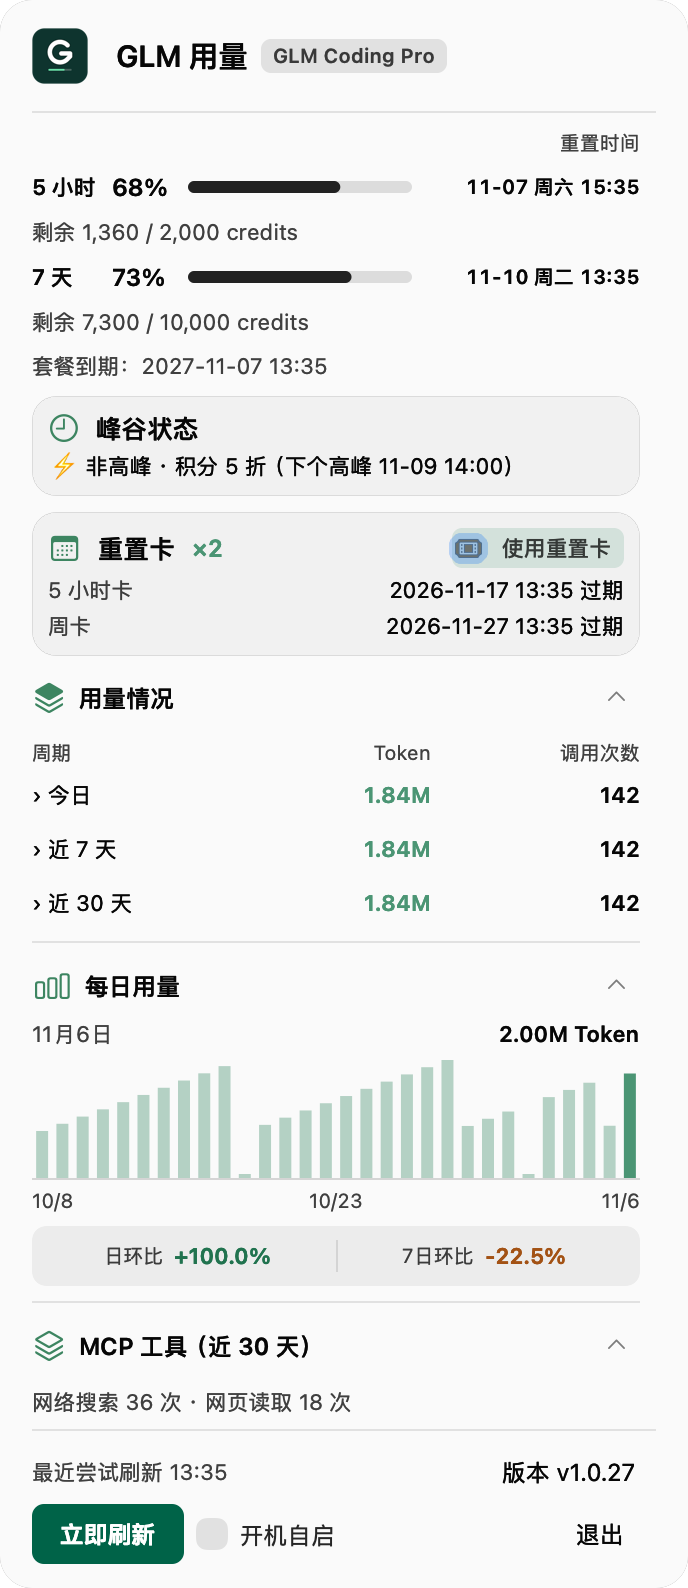
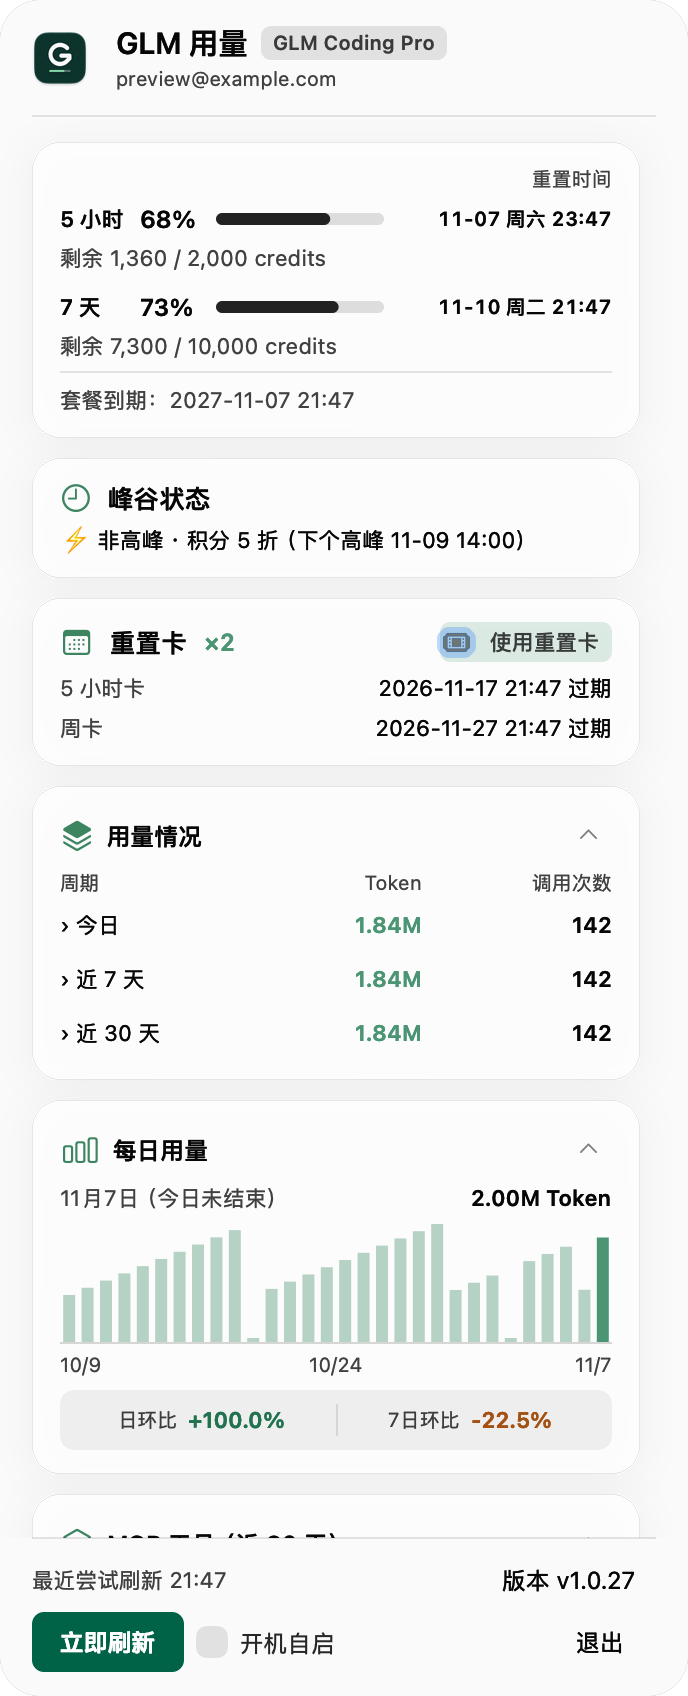
重构面板为分层卡片并压缩垂直空间

diff --git a/GlmUsage.swift b/GlmUsage.swift
@@ -1666,18 +1666,54 @@ enum GLMRemainingColor {
     }
 }
 final class GLMPanelCard: NSView {
+    static let contentInset: CGFloat = 14
+    static let verticalInset: CGFloat = 12
+
     let content = GLMPanelStack()
+
     init() {
-        super.init(frame: .zero); translatesAutoresizingMaskIntoConstraints = false
-        wantsLayer = true; layer?.cornerRadius = 12; layer?.borderWidth = 0.5
-        content.orientation = .vertical; content.alignment = .leading; content.spacing = 4; content.translatesAutoresizingMaskIntoConstraints = false
+        super.init(frame: .zero)
+        translatesAutoresizingMaskIntoConstraints = false
+        wantsLayer = true
+        // 阴影在卡片自身 layer 上绘制，绝不能因 masksToBounds 被圆角背景一起裁掉。
+        layer?.cornerRadius = 14
+        layer?.borderWidth = 0.5
+        layer?.masksToBounds = false
+        layer?.shadowColor = NSColor.black.cgColor
+        layer?.shadowRadius = 11
+        layer?.shadowOffset = CGSize(width: 0, height: -2)
+        content.orientation = .vertical
+        content.alignment = .leading
+        content.spacing = 6
+        content.translatesAutoresizingMaskIntoConstraints = false
         addSubview(content)
-        NSLayoutConstraint.activate([content.topAnchor.constraint(equalTo: topAnchor, constant: 8), content.bottomAnchor.constraint(equalTo: bottomAnchor, constant: -8), content.leadingAnchor.constraint(equalTo: leadingAnchor, constant: 8), content.trailingAnchor.constraint(equalTo: trailingAnchor, constant: -8)])
+        NSLayoutConstraint.activate([
+            content.topAnchor.constraint(equalTo: topAnchor, constant: Self.verticalInset),
+            content.bottomAnchor.constraint(equalTo: bottomAnchor, constant: -Self.verticalInset),
+            content.leadingAnchor.constraint(equalTo: leadingAnchor, constant: Self.contentInset),
+            content.trailingAnchor.constraint(equalTo: trailingAnchor, constant: -Self.contentInset)
+        ])
     }
+
     required init?(coder: NSCoder) { fatalError() }
     override var wantsUpdateLayer: Bool { true }
-    override func updateLayer() { effectiveAppearance.performAsCurrentDrawingAppearance { layer?.backgroundColor = NSColor.labelColor.withAlphaComponent(0.035).cgColor; layer?.borderColor = NSColor.labelColor.withAlphaComponent(0.09).cgColor } }
-    override func viewDidChangeEffectiveAppearance() { super.viewDidChangeEffectiveAppearance(); needsDisplay = true }
+
+    override func updateLayer() {
+        effectiveAppearance.performAsCurrentDrawingAppearance {
+            let dark = effectiveAppearance.bestMatch(from: [.darkAqua, .aqua]) == .darkAqua
+            // popover 材质之上只叠语义化动态色：浅色拉开层级，深色以细微色差和描边为主。
+            layer?.backgroundColor = (dark
+                ? NSColor.labelColor.withAlphaComponent(0.055)
+                : NSColor.controlBackgroundColor.withAlphaComponent(0.82)).cgColor
+            layer?.borderColor = NSColor.labelColor.withAlphaComponent(dark ? 0.14 : 0.09).cgColor
+            layer?.shadowOpacity = dark ? 0.03 : 0.06
+        }
+    }
+
+    override func viewDidChangeEffectiveAppearance() {
+        super.viewDidChangeEffectiveAppearance()
+        needsDisplay = true
+    }
 }
 
 final class GLMPanelAction: NSButton {
@@ -3132,10 +3168,15 @@ final class AppDelegate: NSObject, NSApplicationDelegate, NSMenuDelegate, NSPopo
         let inner = width - 32
         let root = panelRoot
         for view in root.arrangedSubviews { root.removeArrangedSubview(view); view.removeFromSuperview() }
-        root.orientation = .vertical; root.alignment = .leading; root.spacing = 8
-        root.edgeInsets = NSEdgeInsets(top: 8, left: 16, bottom: 8, right: 16)
+        root.orientation = .vertical; root.alignment = .leading; root.spacing = 10
+        // 给卡片阴影留出绘制空间；scroll 只裁主容器边缘，不裁卡片自身阴影。
+        root.edgeInsets = NSEdgeInsets(top: 12, left: 16, bottom: 12, right: 16)
         root.translatesAutoresizingMaskIntoConstraints = false
         func add(_ v: NSView) { root.addArrangedSubview(v); v.widthAnchor.constraint(equalToConstant: inner).isActive = true }
+        func addContent(_ v: NSView, to card: GLMPanelCard) {
+            card.content.addArrangedSubview(v)
+            v.widthAnchor.constraint(equalTo: card.content.widthAnchor).isActive = true
+        }
         func label(_ text: String, size: CGFloat = 11, bold: Bool = false, color: NSColor = .labelColor) -> NSTextField {
             let f = NSTextField(wrappingLabelWithString: text); f.font = .systemFont(ofSize: size, weight: bold ? .semibold : .regular); f.textColor = color
             f.lineBreakMode = .byWordWrapping; f.maximumNumberOfLines = 0; return f
@@ -3168,37 +3209,72 @@ final class AppDelegate: NSObject, NSApplicationDelegate, NSMenuDelegate, NSPopo
             item.heightAnchor.constraint(equalToConstant: 26).isActive = true
             return item
         }
+        // 更新进行中：原按钮位置换成进度行（重开面板也在此恢复）；空闲时才显示更新按钮
+        if UpdateProgressController.shared.isActive { add(UpdateProgressRowView()) }
+        else if UpdateChecker.shared.available && !preview { add(button("⬆ 新版本可用，点击更新", #selector(onUpdateApp), prominent: true)) }
+
+        let quotaCard = GLMPanelCard()
+        quotaCard.content.spacing = 6
+        let resetHeading = label("重置时间", size: 10, color: .secondaryLabelColor)
+        resetHeading.alignment = .right
+        addContent(resetHeading, to: quotaCard)
+
         func quota(_ entry: LimitEntry?, _ name: String, _ error: String?, _ warning: String?, _ last: Date?, _ stale: Bool) {
-            let r = row()
-            let title = label(name, size: 11, bold: true); title.widthAnchor.constraint(equalToConstant: 36).isActive = true; r.addArrangedSubview(title)
+            let group = GLMPanelStack()
+            group.orientation = .vertical
+            group.alignment = .leading
+            group.spacing = 5
+            func addToGroup(_ view: NSView) {
+                group.addArrangedSubview(view)
+                view.widthAnchor.constraint(equalTo: group.widthAnchor).isActive = true
+            }
+
+            // 周期、百分比、进度条与重置时间共用一行，避免为进度条额外占用一行高度。
+            let heading = row()
+            heading.spacing = 4
+            let title = label(name, size: 11, bold: true)
+            title.widthAnchor.constraint(equalToConstant: 36).isActive = true
+            heading.addArrangedSubview(title)
             let ratio = entry?.usedRemainingRatio
-            let pct = label(Fmt.pct(ratio), size: 12, bold: true, color: GLMRemainingColor.color(ratio)); pct.widthAnchor.constraint(equalToConstant: 34).isActive = true; r.addArrangedSubview(pct)
-            let bar = GLMQuotaBar(ratio); bar.widthAnchor.constraint(greaterThanOrEqualToConstant: 20).isActive = true; r.addArrangedSubview(bar)
+            let pct = label(Fmt.pct(ratio), size: 12, bold: true, color: GLMRemainingColor.color(ratio))
+            pct.widthAnchor.constraint(equalToConstant: 34).isActive = true
+            heading.addArrangedSubview(pct)
+            let bar = GLMQuotaBar(ratio)
+            bar.widthAnchor.constraint(greaterThanOrEqualToConstant: 20).isActive = true
+            heading.addArrangedSubview(bar)
             let reset = label(entry?.reset.map { Fmt.weekDayTime($0) } ?? "时间未知", size: 10, bold: true)
             reset.font = .monospacedDigitSystemFont(ofSize: 10, weight: .semibold)
             reset.alignment = .right
             reset.lineBreakMode = .byTruncatingTail
             reset.maximumNumberOfLines = 1
             reset.widthAnchor.constraint(equalToConstant: 110).isActive = true
-            reset.setContentCompressionResistancePriority(.required, for: .horizontal); r.addArrangedSubview(reset); add(r)
-            if let e = entry { add(label("剩余 \(Fmt.credits(e.remaining)) / \(Fmt.credits(e.limit)) credits", color: .secondaryLabelColor)) }
-            else { add(label("暂无数据", color: .secondaryLabelColor)) }
-            if let e = error { add(label("刷新失败：\(e) · 最后成功 \(Fmt.lastOK(last))", color: .systemRed)) }
-            if let warning = warning { add(label("部分数据异常：\(warning)", color: .systemOrange)) }
-            if error == nil && stale { add(label("数据已过期 · 最后成功 \(Fmt.lastOK(last))", color: .systemOrange)) }
+            reset.setContentCompressionResistancePriority(.required, for: .horizontal)
+            heading.addArrangedSubview(reset)
+            addToGroup(heading)
+
+            // 余量和所有异常文本独占卡片全宽，不参与右侧时间列的宽度竞争。
+            if let e = entry { addToGroup(label("剩余 \(Fmt.credits(e.remaining)) / \(Fmt.credits(e.limit)) credits", color: .secondaryLabelColor)) }
+            else { addToGroup(label("暂无数据", color: .secondaryLabelColor)) }
+            if let e = error { addToGroup(label("刷新失败：\(e) · 最后成功 \(Fmt.lastOK(last))", color: .systemRed)) }
+            if let warning = warning { addToGroup(label("部分数据异常：\(warning)", color: .systemOrange)) }
+            if error == nil && stale { addToGroup(label("数据已过期 · 最后成功 \(Fmt.lastOK(last))", color: .systemOrange)) }
+            addContent(group, to: quotaCard)
         }
-        // 更新进行中：原按钮位置换成进度行（重开面板也在此恢复）；空闲时才显示更新按钮
-        if UpdateProgressController.shared.isActive { add(UpdateProgressRowView()) }
-        else if UpdateChecker.shared.available && !preview { add(button("⬆ 新版本可用，点击更新", #selector(onUpdateApp), prominent: true)) }
-        let resetHeading = label("重置时间", size: 10, color: .secondaryLabelColor); resetHeading.alignment = .right; add(resetHeading)
         quota(usage.fiveHour, "5 小时", usage.fiveHourError, usage.fiveHourWarning, fiveHourLastOK, fiveHourStale)
+        if let fiveHourGroup = quotaCard.content.arrangedSubviews.last {
+            quotaCard.content.setCustomSpacing(10, after: fiveHourGroup)
+        }
         quota(usage.week, "7 天", usage.weekError, usage.weekWarning, weekLastOK, weekStale)
+        if usage.subscription != nil || usage.subscriptionError != nil || subscriptionStale {
+            addContent(separator(), to: quotaCard)
+        }
         if let sub = usage.subscription {
             let expiry = sub.expireDate.map { "套餐到期：\(Fmt.fullTime.string(from: $0))" } ?? "套餐到期：暂无数据"
-            add(label(expiry, color: .secondaryLabelColor))
+            addContent(label(expiry, color: .secondaryLabelColor), to: quotaCard)
         }
-        if let error = usage.subscriptionError { add(label("套餐刷新失败：\(error) · 最后成功 \(Fmt.lastOK(subscriptionLastOK))", color: .systemRed)) }
-        else if subscriptionStale { add(label("套餐数据已过期 · 最后成功 \(Fmt.lastOK(subscriptionLastOK))", color: .systemOrange)) }
+        if let error = usage.subscriptionError { addContent(label("套餐刷新失败：\(error) · 最后成功 \(Fmt.lastOK(subscriptionLastOK))", color: .systemRed), to: quotaCard) }
+        else if subscriptionStale { addContent(label("套餐数据已过期 · 最后成功 \(Fmt.lastOK(subscriptionLastOK))", color: .systemOrange), to: quotaCard) }
+        add(quotaCard)
         let peak = Peak.evaluate()
         let peakCard = GLMPanelCard()
         let peakTitle = row(); peakTitle.spacing = 8; peakTitle.addArrangedSubview(symbol("clock")); peakTitle.addArrangedSubview(label("峰谷状态", size: 13, bold: true)); peakTitle.addArrangedSubview(spacer())
@@ -3262,16 +3338,18 @@ final class AppDelegate: NSObject, NSApplicationDelegate, NSMenuDelegate, NSPopo
             if let message = message { let l = label(message, color: .systemRed); cards.content.addArrangedSubview(l); l.widthAnchor.constraint(equalTo: cards.content.widthAnchor).isActive = true }
         }
         add(cards)
+        let usageCard = GLMPanelCard()
+        usageCard.content.spacing = 4
         let usageSection = section("用量情况", icon: "square.stack.3d.up.fill", expanded: tokenExpanded, action: #selector(toggleToken))
-        add(usageSection)
+        addContent(usageSection, to: usageCard)
         let windows: [(String, ModelUsage?, Date?, Bool, String?)] = [
             ("今日", usage.tokensToday, tokensTodayLastOK, tokensTodayStale, usage.tokensTodayError),
             ("近 7 天", usage.tokens7d, tokens7dLastOK, tokens7dStale, usage.tokens7dError),
             ("近 30 天", usage.tokens30d, tokens30dLastOK, tokens30dStale, usage.tokens30dError)]
         func tableCells(_ values: [String], header: Bool, modelDetail: Bool = false) -> NSStackView {
             let r = row(); r.spacing = 4
-            // PR #6 将展开指示移到行首，三列与两个间距填满整行。
-            let tableWidth = inner - 8
+            // 三列与两个间距填满卡片内容宽；展开指示仍保留在行首。
+            let tableWidth = inner - GLMPanelCard.contentInset * 2 - 8
             // 明细行将调用次数列之前的空间更多留给模型名；Token 右边缘保持与汇总行对齐。
             let widths = modelDetail
                 ? [tableWidth * 0.46, tableWidth * 0.20, tableWidth * 0.34]
@@ -3300,12 +3378,13 @@ final class AppDelegate: NSObject, NSApplicationDelegate, NSMenuDelegate, NSPopo
             return r
         }
         if tokenExpanded {
-            let tableHeader = tableCells(["周期", "Token", "调用次数"], header: true); add(tableHeader)
+            let tableHeader = tableCells(["周期", "Token", "调用次数"], header: true)
+            addContent(tableHeader, to: usageCard)
             // 参考 CodexUsage：普通汇总行紧凑排列，展开的明细组末留出间隔。
             var previous: NSView? = tableHeader
             var previousEndsGroup = false
             func tighten(after view: NSView?, gap: CGFloat) {
-                if let view = view { root.setCustomSpacing(gap, after: view) }
+                if let view = view { usageCard.content.setCustomSpacing(gap, after: view) }
             }
             for (index, window) in windows.enumerated() {
                 let (name, stats, _, _, _) = window
@@ -3322,7 +3401,8 @@ final class AppDelegate: NSObject, NSApplicationDelegate, NSMenuDelegate, NSPopo
                 item.toolTip = models.isEmpty ? "暂无模型明细" : (expanded ? "收起模型明细" : "展开模型明细")
                 cells.translatesAutoresizingMaskIntoConstraints = false; item.addSubview(cells)
                 NSLayoutConstraint.activate([cells.leadingAnchor.constraint(equalTo: item.leadingAnchor), cells.centerYAnchor.constraint(equalTo: item.centerYAnchor)])
-                item.heightAnchor.constraint(equalToConstant: 23).isActive = true; add(item)
+                item.heightAnchor.constraint(equalToConstant: 23).isActive = true
+                addContent(item, to: usageCard)
                 tighten(after: previous, gap: previous === tableHeader ? 3 : (previousEndsGroup ? 8 : 4))
                 previous = item
                 previousEndsGroup = false
@@ -3330,7 +3410,7 @@ final class AppDelegate: NSObject, NSApplicationDelegate, NSMenuDelegate, NSPopo
                     for (modelIndex, model) in models.enumerated() {
                         let detail = tableCells([model.name, Fmt.tokens(model.tokens), ""], header: false, modelDetail: true)
                         detail.heightAnchor.constraint(equalToConstant: 20).isActive = true
-                        add(detail)
+                        addContent(detail, to: usageCard)
                         tighten(after: previous, gap: 3)
                         previous = detail
                         previousEndsGroup = modelIndex == models.count - 1
@@ -3339,23 +3419,27 @@ final class AppDelegate: NSObject, NSApplicationDelegate, NSMenuDelegate, NSPopo
             }
         }
         for (name, _, last, stale, error) in windows {
-            if let error = error { add(label("\(name)刷新失败：\(error) · 最后成功 \(Fmt.lastOK(last))", color: .systemRed)) }
-            else if stale { add(label("\(name)数据已过期 · 最后成功 \(Fmt.lastOK(last))", color: .systemOrange)) }
+            if let error = error { addContent(label("\(name)刷新失败：\(error) · 最后成功 \(Fmt.lastOK(last))", color: .systemRed), to: usageCard) }
+            else if stale { addContent(label("\(name)数据已过期 · 最后成功 \(Fmt.lastOK(last))", color: .systemOrange), to: usageCard) }
         }
-        // 每日用量：位于用量情况与 MCP 之间；数据只读慢项缓存，悬停/键盘不发请求。
-        // 打开期间跨面板重建保留选择；重新打开面板时恢复最新日期。
-        // 旧值保留期间有解析/刷新失败或超时 → 仅在「近 30 天」旁给简短「待更新」，不写技术细节。
-        add(separator())
+        add(usageCard)
+
+        // 每日用量：标题、选中行、图表和比较条作为一个完整模块进入独立卡片。
+        let dailyCard = GLMPanelCard()
+        dailyCard.content.spacing = 4
         let dailyPending = usage.dailyTokens != nil && (usage.dailyTokensError != nil || dailyStale)
         let dailySection = GLMDailyUsageSectionView(buckets: usage.dailyTokens, selectedIndex: dailySelectedIndex,
                                                     expanded: dailyExpanded, toggleTarget: self,
                                                     toggleAction: #selector(toggleDaily), pendingNote: dailyPending) { [weak self] index in
             self?.dailySelectedIndex = index
         }
-        add(dailySection)
-        add(separator())
+        addContent(dailySection, to: dailyCard)
+        add(dailyCard)
+
+        let mcpCard = GLMPanelCard()
+        mcpCard.content.spacing = 4
         let mcpSection = section("MCP 工具（近 30 天）", icon: "square.stack.3d.up", expanded: mcpExpanded, action: #selector(toggleMCP))
-        add(mcpSection)
+        addContent(mcpSection, to: mcpCard)
         // 键盘可达（PRD §6.2 支持键盘切换日期）：把柱图接进 key view loop——
         // 「用量情况」标题 → 柱图 → 「MCP 工具」标题为显式顺序，其余环节按几何自动；
         // Full Keyboard Access 下 Tab 即可到达柱图，左右方向键切换日期
@@ -3366,11 +3450,12 @@ final class AppDelegate: NSObject, NSApplicationDelegate, NSMenuDelegate, NSPopo
             usageSection.nextKeyView = mcpSection   // 折叠时柱图不在视图层级，直接桥接相邻板块
         }
         if mcpExpanded {
-            if let t = usage.tools30d { add(label("网络搜索 \(Fmt.count(t.networkSearch)) 次 · 网页读取 \(Fmt.count(t.webRead)) 次", color: .secondaryLabelColor)) }
-            else { add(label("暂无数据", color: .secondaryLabelColor)) }
+            if let t = usage.tools30d { addContent(label("网络搜索 \(Fmt.count(t.networkSearch)) 次 · 网页读取 \(Fmt.count(t.webRead)) 次", color: .secondaryLabelColor), to: mcpCard) }
+            else { addContent(label("暂无数据", color: .secondaryLabelColor), to: mcpCard) }
         }
-        if let e = usage.toolsError { add(label("MCP 刷新失败：\(e) · 最后成功 \(Fmt.lastOK(toolsLastOK))", color: .systemRed)) }
-        else if toolsStale { add(label("MCP 数据已过期 · 最后成功 \(Fmt.lastOK(toolsLastOK))", color: .systemOrange)) }
+        if let e = usage.toolsError { addContent(label("MCP 刷新失败：\(e) · 最后成功 \(Fmt.lastOK(toolsLastOK))", color: .systemRed), to: mcpCard) }
+        else if toolsStale { addContent(label("MCP 数据已过期 · 最后成功 \(Fmt.lastOK(toolsLastOK))", color: .systemOrange), to: mcpCard) }
+        add(mcpCard)
 
         let header = row(); header.spacing = 12
         let icon = NSImageView(image: NSApp.applicationIconImage); icon.widthAnchor.constraint(equalToConstant: 32).isActive = true; icon.heightAnchor.constraint(equalToConstant: 32).isActive = true; header.addArrangedSubview(icon)
@@ -3433,7 +3518,7 @@ final class AppDelegate: NSObject, NSApplicationDelegate, NSMenuDelegate, NSPopo
         if !panelConfigured {
             let container = NSView(); container.translatesAutoresizingMaskIntoConstraints = false
             container.wantsLayer = true
-            container.layer?.cornerRadius = 16
+            container.layer?.cornerRadius = 20
             container.layer?.masksToBounds = true
             panelEffect.frame = container.bounds
             panelEffect.autoresizingMask = [.width, .height]
@@ -3588,15 +3673,16 @@ final class AppDelegate: NSObject, NSApplicationDelegate, NSMenuDelegate, NSPopo
                 NSApp.sendEvent(event)
             }
         }
-        // 步骤设计：面板加入每日用量后整体更高，模型窗全开会顶到最大高度
-        // （截断区内增减不改变窗口高，会误报 0），因此：
-        // 模型开窗 0/1→收1→开2（终态 [0,2]）在前、每步仍有真实增减；
-        // 收起 Token 表后窗口远低于上限，MCP 与 footer(刷新提示行) 的增减在非截断区验证
+        // 六张卡片增加了固定外框高度：连续展开多个模型窗会顶到最大高度，
+        // 截断区内继续展开不会改变窗口高。逐项开/收可让每步都在非截断区验证真实增减；
+        // 收起 Token 表后，再验证 MCP 与 footer（刷新提示行）的增减。
         let steps: [(HeightChange, () -> Void)] = [
             (.increase, { click(#selector(self.toggleModels(_:)), tag: 0) }),
+            (.decrease, { click(#selector(self.toggleModels(_:)), tag: 0) }),
             (.increase, { click(#selector(self.toggleModels(_:)), tag: 1) }),
             (.decrease, { click(#selector(self.toggleModels(_:)), tag: 1) }),
             (.increase, { click(#selector(self.toggleModels(_:)), tag: 2) }),
+            (.decrease, { click(#selector(self.toggleModels(_:)), tag: 2) }),
             (.decrease, { click(#selector(self.toggleToken)) }),
             (.decrease, { click(#selector(self.toggleMCP)) }),
             (.increase, { click(#selector(self.toggleMCP)) }),
@@ -3606,6 +3692,9 @@ final class AppDelegate: NSObject, NSApplicationDelegate, NSMenuDelegate, NSPopo
             if index == steps.count {
                 DispatchQueue.main.asyncAfter(deadline: .now() + 0.5) {
                     verify("async-refresh", .same, strictAnchor: false)
+                    // 多窗展开状态单独做重开保持回归；这里直接布置终态，避免在截断区追加无高度变化的点击。
+                    self.expandedModelWindows = [0, 2]
+                    self.rebuildMenu()
                     guard self.expandedModelWindows == [0, 2] else { fail("model expansion state lost"); return }
                     self.popover.performClose(nil)
                     guard !self.popover.isShown else { fail("close"); return }
